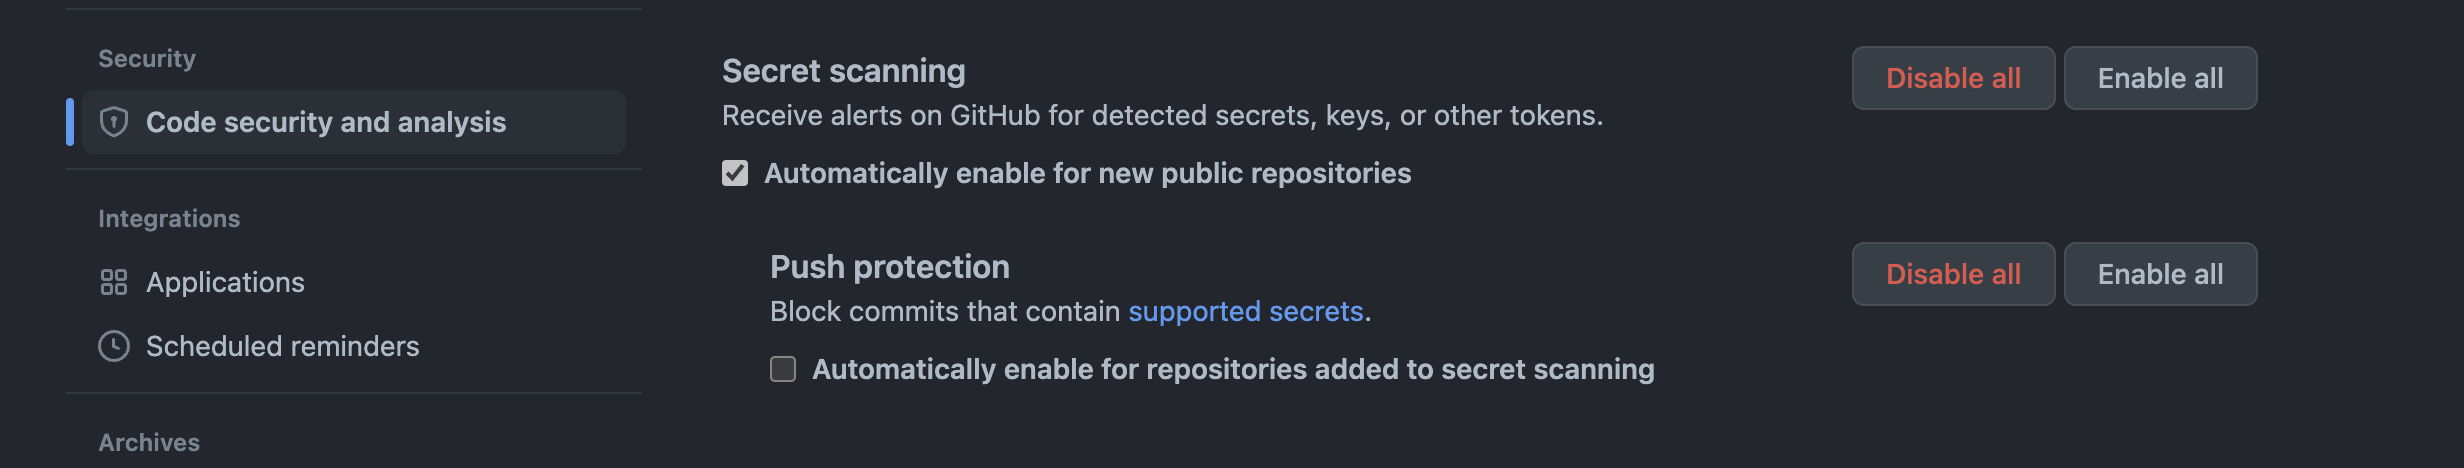
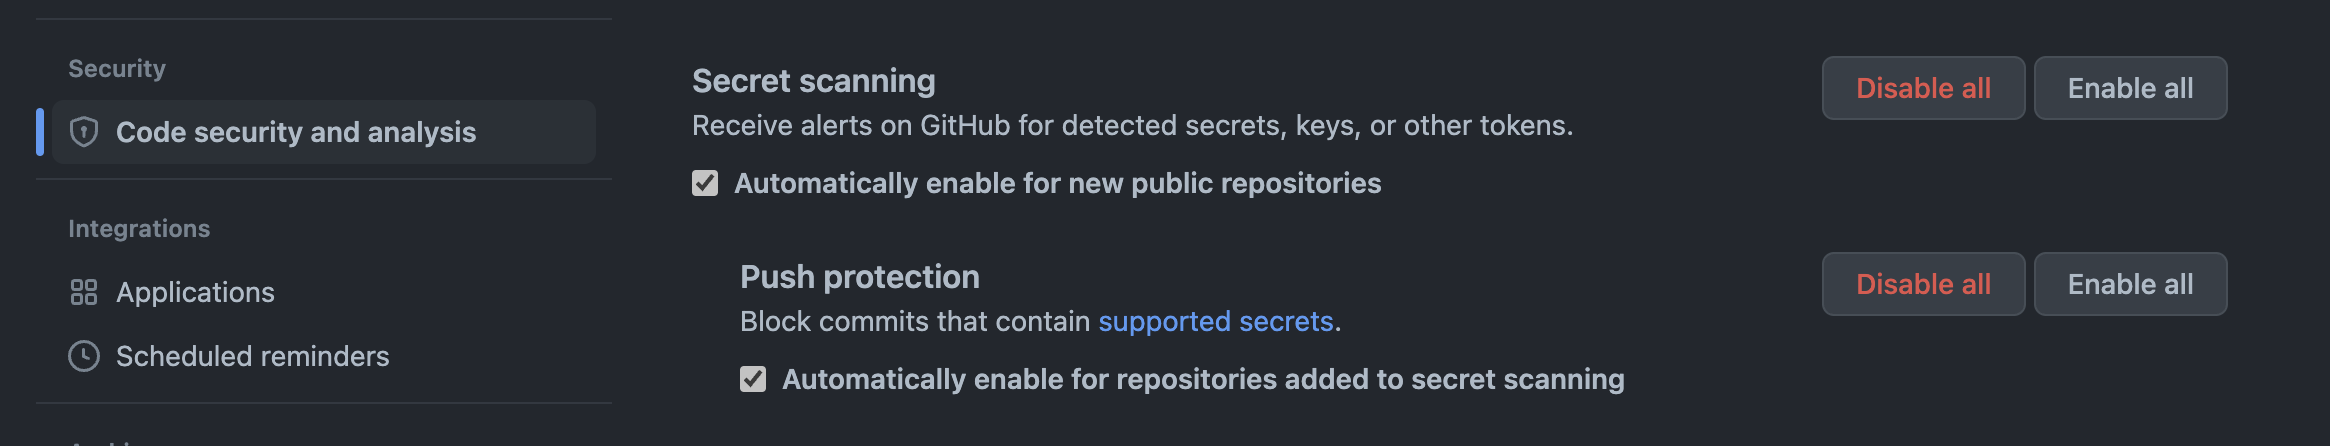
fixup! シークレットのpushテスト

diff --git a/articles/productivity-weekly-20230510.md b/articles/productivity-weekly-20230510.md
@@ -72,9 +72,17 @@ REST API に関しては一昨年似たような対応がされています[^res
 ## Secret scanning's push protection is available on public repositories, for free | GitHub Changelog
 https://github.blog/changelog/2023-05-09-secret-scannings-push-protection-is-available-on-public-repositories-for-free/
 
-github の secret scanning の push protection が全てのパブリックリポジトリで利用可能になったお y
+GitHub の Secret scanning において、push protection がすべてのパブリックリポジトリで利用可能になりました。
 
-`github_pat_hogehogehogehoge...`
+push protection は、push しようとしたコミットに GitHub の PAT などのシークレットが含まれていた場合、push を拒否する機能で、[2022 年 4 月にリリースされました](https://github.blog/changelog/2022-04-04-secret-scanning-prevents-secret-leaks-with-protection-on-push/)。
+
+既存の Secret scanning はリモートリポジトリ上のシークレットを検知してくれますが、push protection はリモートリポジトリへの push 前にシークレットを検知してくれるため、漏洩を未然に防止できます。
+
+これまでは GitHub Advanced Security を契約している場合に利用可能でしたが、今回の変更により、すべてのパブリックリポジトリで利用可能になりました。
+
+実際に有効化した上で、シークレットをコミットして push しようとすると、以下のようなエラーが出て push が拒否されます。
+
+※ 今回は GitHub の PAT（削除済み）をコミットしました。`github_pat_hogehogehogehoge...`
 
 ```text:GitHub の PAT（削除済み）をコミットして push しようとした場合の例
 ❯ git push
@@ -101,7 +109,7 @@ remote:    - commit: 1cb6f4aa448dd3938335a681a3929697d93e6f70
 remote:      path: articles/productivity-weekly-20230510.md:72
 remote:
 remote:  (?) To push, remove secret from commit(s) or follow this URL to allow the secret.
-remote:  http://github.com/korosuke613/zenn-articles/security/secret-scanning/unblock-secret/2PgIy2ISok5kggoIl2C5uOgyNEg
+remote:  http://github.com/korosuke613/zenn-articles/security/secret-scanning/unblock-secret/hogehoge
 remote:
 remote:
 remote:
@@ -110,11 +118,31 @@ To https://github.com/korosuke613/zenn-articles
 error: failed to push some refs to 'https://github.com/korosuke613/zenn-articles'
 ```
 
-![](/images/productivity-weekly-20230510/push_protection_enable_all.png)
-*https://github.com/settings/security_analysis から自分がオーナーの全リポジトリに一括設定できる*
+push がちゃんと失敗してますね。push protection によるものであることも明記されてて親切です。
+また、どのコミットでどのファイルの何行目が何に引っかかったかも教えてくれます。
+
+> To push, remove secret from commit(s) or follow this URL to allow the secret.
+remote:  http://github.com/korosuke613/zenn-articles/security/secret-scanning/unblock-secret/hogehoge
+
+さらに、push をバイパスするためのリンクも表示されています。リンクをクリックすると次のような画面が表示されます。
 
 ![](/images/productivity-weekly-20230510/push_protection_bypass.png =400x)
 *テスト用途や誤検知した時に引っかかった文字列をバイパスして push することもできる*
+
+> - [x] It's used in tests
+The secret poses no risk, and if anyone finds it, they cannot do any damage or gain access to sensitive information.
+> - [ ] It's a false positive
+The detected string is not a real secret.
+> - [ ] I'll fix it later
+The secret is real, I understand the risk, and I will need to revoke it. This will open a security alert and notify admins of this repository.
+
+テスト用途だから、誤検知だから、後で直すからといった理由を選択し、`Allow me to push this secret` をクリックすることで検知された文字列を含んだまま push が可能になるようです。
+
+![](/images/productivity-weekly-20230510/push_protection_enable_all.png)
+*https://github.com/settings/security_analysis から自分がオーナーの全リポジトリに一括設定できる*
+
+push protection、うっかりコミットをだいぶ減らせてくれそうですね。
+各リポジトリへ個別設定もできますが、ユーザの設定画面から一括設定＆新規リポジトリに自動設定も可能です。基本的に有効化して損しない機能だと思うので、ぜひ有効化しましょう。
 
 ## Introducing Actions on the Repository view on GitHub Mobile | GitHub Changelog
 https://github.blog/changelog/2023-05-09-introducing-actions-on-the-repository-view-on-github-mobile/
